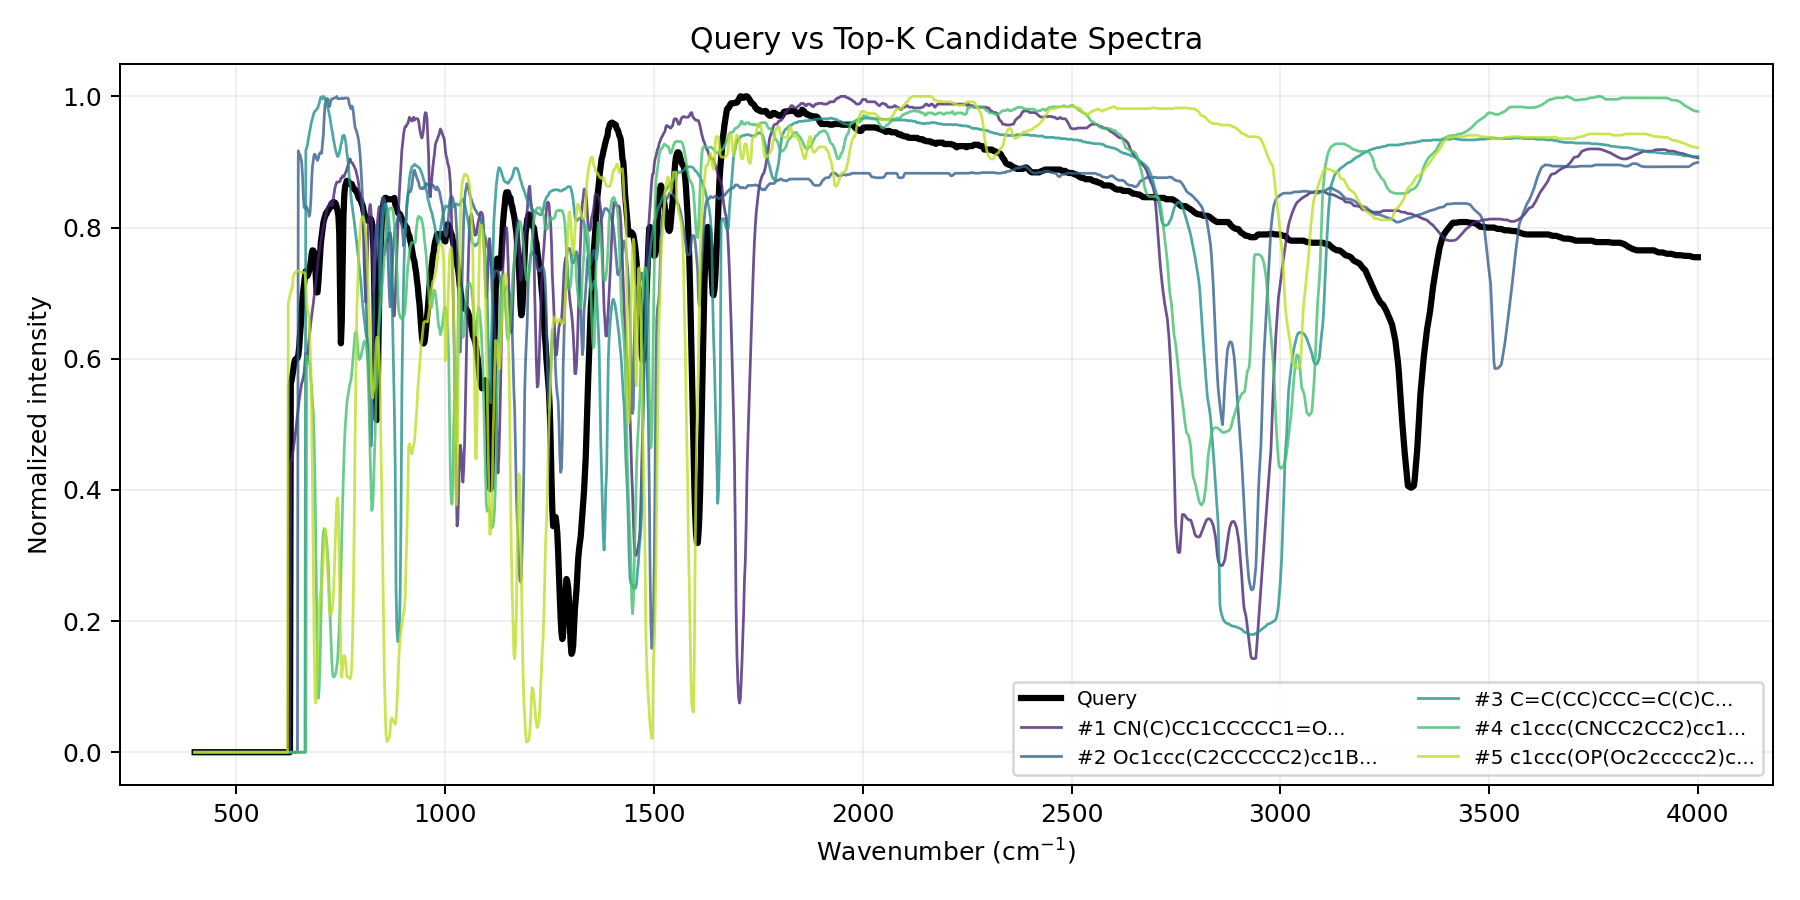
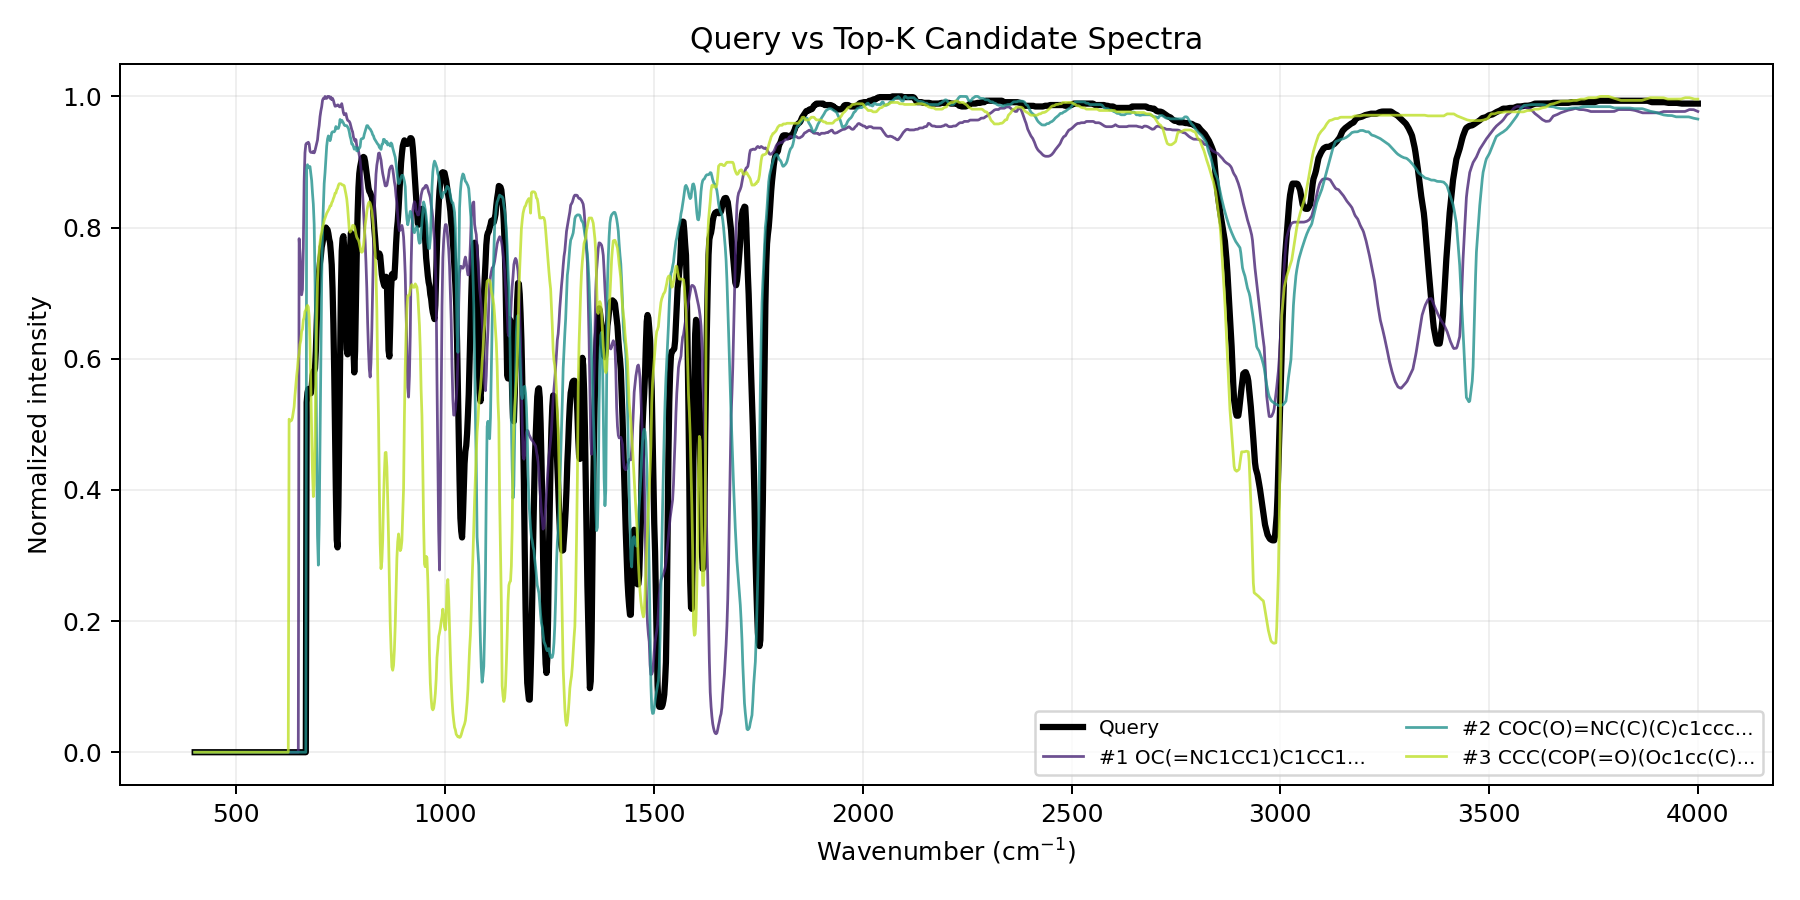
Finalize Stage-I NIST IR demo on main and fix CI tests

Changed region(s): [[0.1556, 0.0933, 0.9644, 0.84], [0.56, 0.7467, 0.9644, 0.8711]]

diff --git a/README.md b/README.md
@@ -1,5 +1,15 @@
 # MultiSpec-GeoDiff: Stage-I Demo for Spectra-driven Molecular Structure Inversion
 
+> **Final DP Technology internship demo submission.**
+
+**Final submission entry:**
+- Project proposal: [`01_project_proposal/proposal.md`](01_project_proposal/proposal.md)
+- Demo report: [`02_demo_document/demo_report.md`](02_demo_document/demo_report.md)
+- Main command: `python 03_code/run_demo.py --query_id 0 --data 04_data/IR_nist_200.jsonl --top_k 5`
+- Tests: `PYTHONPATH=03_code/src pytest 03_code/tests -q`
+
+---
+
 ## What this demo shows
 
 This demo validates Stage-I feasibility on **200 experimental NIST IR spectra**.